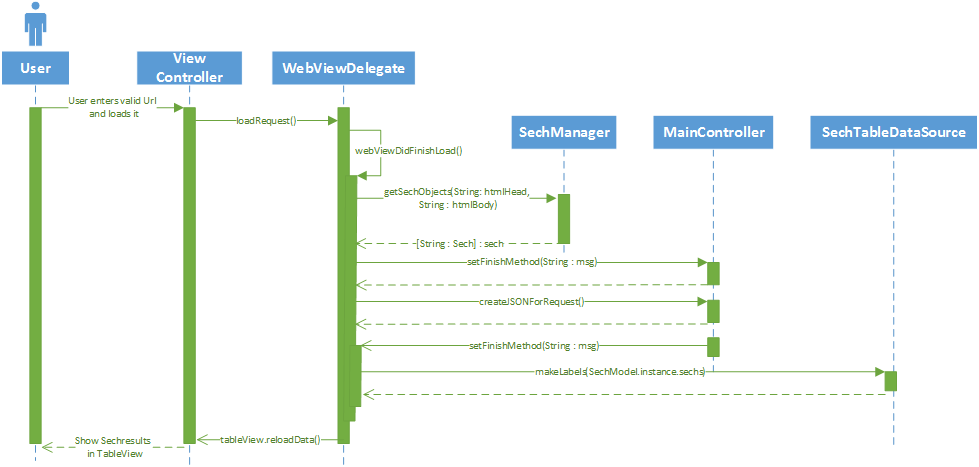
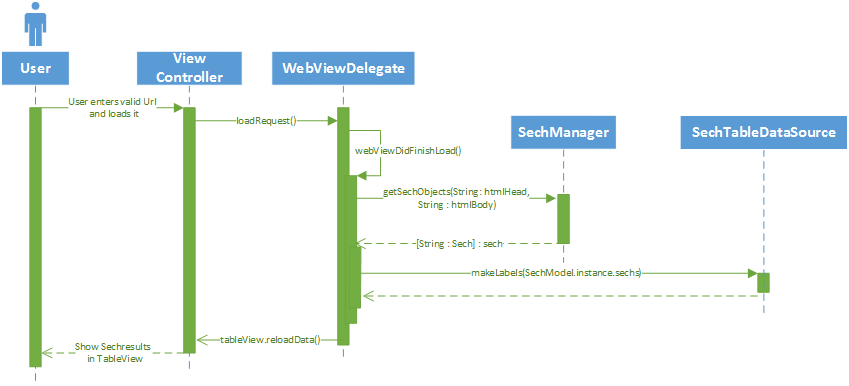
Anpassung der Sechobjecterstellung-doku

Changed region(s): [[0.0, 0.0, 0.9187, 0.9948], [0.5206, 0.2487, 1.0, 0.4352], [0.8881, 0.4974, 0.9187, 0.6218]]

diff --git a/LaTeX/sechobject.tex b/LaTeX/sechobject.tex
@@ -6,12 +6,9 @@
 Sobald der User eine gültige URL eingibt und lädt, wird die Laderoutine \Verb|loadRequest()|
 angestoßen. Ist die Seite fertig geladen wird in der Delegatemethode \Verb|webViewDidFinishLoad()|
 des WebViewDelegates das Auslesen bzw. Laden der \SEACH-Tags begonnen.
+
 Dem \SEACH-Manager wird der HTML-Head und Body der eben geladenen Website übergeben und es
 werden mit Hilfe des HTMLManagers \SEACH-Objekte erstellt. Diese \SEACH-Objekte werden in einem
 Dictionary zurückgegeben.
-Die \Verb|setFinishMethod()|-Methode bereitet den MainController darauf vor, asynchron eine Methode
-im WebViewDelegate aufzurufen, sobald die \SEACH-Objekte durch die Response erweitert worden
-sind. Der Prozess der EEXCESS-Abfrage wird dann durch die Methode \Verb|createJSONForRequest()| mit
-dem Parameter des \SEACH-Dictionarys angestoßen. Sobald dann die Elemente erweitert wurden ruft
-der MainController die \Verb|setFinishMethod()| des WebViewDelegates auf und die Liste der \SEACH-Tags
-im UI wird aktualisiert.
+
+Sobald ein Sechobject-Dictionary zurückgegeben wurde, werden die Ergebnisse gerankt und an den SechTableDataSource übergeben. Anschließend wird mit reloadData() die Tabelle der Sechtags im ViewController befüllt.
